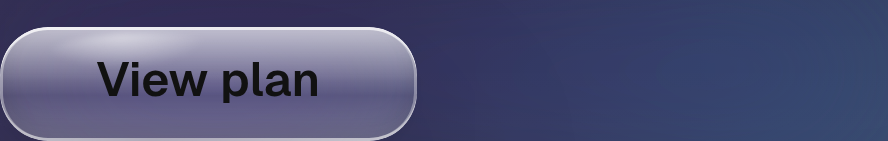
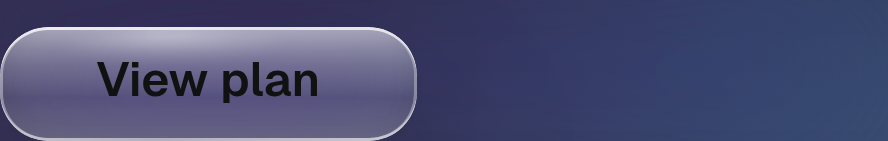
feat(card): reflections that follow the glass curvature on embedded buttons
Reshape the light layers of the in-card button (scoped to .cd-card .btn-embedded)
so the reflections read as born from the geometry, not painted on: the principal
top reflection becomes a radial arc that hugs the rounded top and fades as the
glass curves away; the specular is a single continuous, uneven sweep; the volume
descends non-linearly (lit top face → darker transmissive core → refraction
catch on the bottom face) so depth comes from variation, not a flat gradient.
No brighter face, no glow, no violet, no new layer; frozen material untouched.

Claude-Session: https://claude.ai/code/session_01JSKxADquWPscGGWu93W5g6

Changed region(s): [[0.0, 0.1986, 0.2128, 0.4823], [0.2736, 0.1986, 0.4865, 0.4255]]

diff --git a/src/app/(dev)/dev/card/card.css b/src/app/(dev)/dev/card/card.css
@@ -166,45 +166,57 @@
   border-radius: 16px; /* strongly rounded corners on a short, wide capsule */
 }
 
-/* Internal volume — three readable depth zones instead of a single fade:
-   a lit TOP FACE, a darker transmissive CORE, then a lifted BOTTOM FACE. The
-   box-shadows machine the thickness: a crisp top inner highlight, a deeper
-   internal shadow, and a fine internal-reflection (TIR) line where light
-   catches the lower inner wall. Same fill/shadow tokens — only redistributed. */
+/* Internal volume — a NON-LINEAR descent so depth comes from variation, not a
+   flat fade: a lit top face yields gradually to a darker transmissive core, then
+   a gentle refraction catch lifts the bottom face before it settles. The
+   box-shadows machine the thickness — a crisp top inner highlight, a deeper
+   internal shadow, and a fine internal-reflection (TIR) line on the lower wall.
+   Same fill/shadow tokens; no brighter face, just better-described volume. */
 .cd-card .btn-embedded .ds-glass__volume {
   background: linear-gradient(
     180deg,
     var(--ds-glass-fill-top) 0%,
-    var(--ds-glass-fill-bottom) 44%,
-    rgba(255, 255, 255, 0.18) 60%,
+    var(--ds-glass-fill-bottom) 34%,
+    rgba(255, 255, 255, 0.16) 62%,
+    rgba(255, 255, 255, 0.24) 86%,
     var(--ds-glass-fill-bottom) 100%
   );
   box-shadow:
     inset 0 1px 0 var(--ds-glass-inner-highlight),
-    inset 0 -4px 7px var(--ds-glass-inner-shadow),
-    inset 0 -1px 0 rgba(255, 255, 255, 0.5);
+    inset 0 -5px 9px var(--ds-glass-inner-shadow),
+    inset 0 -1px 0 rgba(255, 255, 255, 0.55);
 }
 
-/* Incident light — the principal reflection on the top face reads as a clearer,
-   tighter band rather than a soft wash (still screen-blended, still light only). */
+/* Incident light — the principal reflection is an ARC that hugs the rounded top
+   and fades as the glass curves away (radial, not a flat band), so it reads as
+   light born from the geometry rather than painted on. The top face captures
+   more light without lifting the overall brightness. Screen-blended, light only. */
 .cd-card .btn-embedded .ds-glass__incident {
-  background: linear-gradient(
-    180deg,
+  background: radial-gradient(
+    140% 92% at 50% -30%,
     var(--ds-glass-inner-highlight) 0%,
-    rgba(255, 255, 255, 0.2) 30%,
-    transparent 48%
+    rgba(255, 255, 255, 0.22) 34%,
+    transparent 60%
   );
 }
 
-/* Specular — make the top glint a touch larger and crisper so the principal
-   highlight is legible as a reflection on a hard surface (no glow, just light). */
+/* Specular — a single continuous, uneven sweep riding the top curvature,
+   stronger near the light and tapering along the capsule, never a uniform patch. */
 .cd-card .btn-embedded .ds-glass__specular {
-  top: 2px;
-  left: 10%;
-  width: 50%;
-  height: 46%;
-  opacity: 0.62;
-  filter: blur(1px);
+  inset: auto;
+  top: 1px;
+  left: 13%;
+  width: 64%;
+  height: 44%;
+  border-radius: 50%;
+  background: radial-gradient(
+    70% 100% at 42% 0%,
+    var(--ds-glass-specular) 0%,
+    rgba(255, 255, 255, 0.26) 38%,
+    transparent 72%
+  );
+  opacity: 0.5;
+  filter: blur(2px);
 }
 
 /* Fresnel edge — livelier exactly where the light hits (top-left): a near-white
